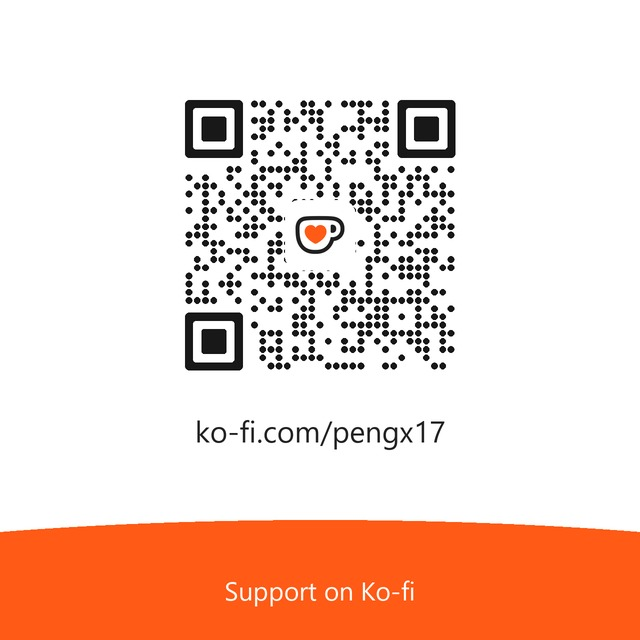
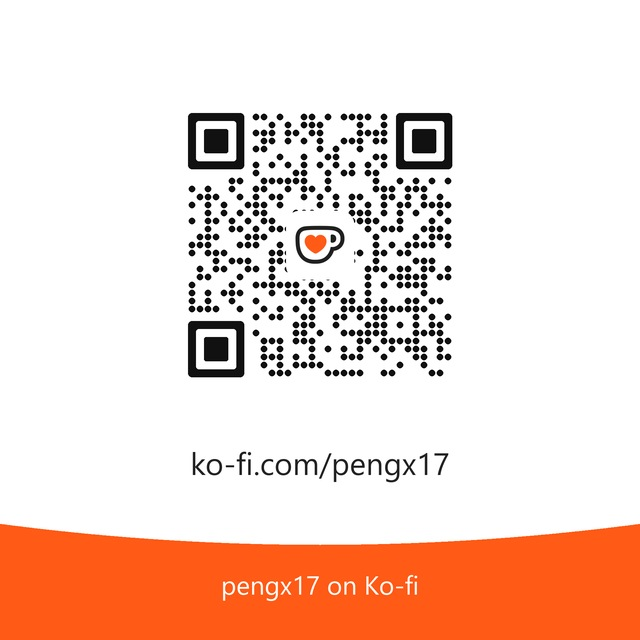
Support page: the two codes laid out alike (same frame, caption row, rows aligned across cards); the Ko-fi code is the link, no separate button

Changed region(s): [[0.2812, 0.1562, 0.7188, 0.5938], [0.0, 0.8125, 1.0, 0.9688], [0.2812, 0.6562, 0.6875, 0.75]]

diff --git a/site/public/support.html b/site/public/support.html
@@ -37,18 +37,19 @@
   .lead { color: var(--muted); margin: 0; max-width: 34em; }
   .opts { display: grid; grid-template-columns: 1fr 1fr; gap: 14px; margin-top: 28px; }
   .opts:has(#kofi[hidden]) { grid-template-columns: minmax(0, 340px); }
-  .opt { display: flex; flex-direction: column; gap: 10px; padding: 22px; border-radius: 12px; background: var(--surface); border: 1px solid var(--line); }
+  .opt { display: grid; grid-row: span 4; grid-template-rows: subgrid; row-gap: 10px; padding: 22px; border-radius: 12px; background: var(--surface); border: 1px solid var(--line); }
   .opt-head { display: flex; align-items: center; justify-content: space-between; gap: 12px; }
   .opt h2 { font-size: 16px; font-weight: 600; margin: 0; }
   .chip { font-size: 12px; color: var(--muted); background: var(--chip); border-radius: 999px; padding: 1px 9px; }
   .opt p { color: var(--muted); font-size: 14px; margin: 0; }
-  .qr { align-self: center; width: 210px; max-width: 100%; border-radius: 10px; border: 1px solid var(--line); display: block; margin-top: 6px; }
-  .btn {
-    margin-top: auto; align-self: flex-start; display: inline-flex; align-items: center; gap: 8px; height: 38px; padding: 0 15px;
-    border-radius: 8px; background: var(--ink); color: #fff; font-size: 13.5px; font-weight: 500;
-  }
-  .btn:hover { background: #282a2f; }
-  .btn svg { width: 14px; height: 14px; }
+  .qr { justify-self: center; align-self: start; width: 210px; max-width: 100%; margin-top: 6px; border-radius: 12px; border: 1px solid var(--line); display: block; overflow: hidden; }
+  a.qr { transition: transform .15s ease, box-shadow .15s ease; }
+  a.qr:hover { transform: translateY(-2px); box-shadow: 0 6px 18px rgba(0,0,0,.10); }
+  .qr img { display: block; width: 100%; height: auto; }
+  .cap { justify-self: center; display: inline-flex; align-items: center; gap: 6px; font-size: 12.5px; color: var(--subtle); }
+  a.cap { color: var(--muted); }
+  a.cap:hover { color: var(--ink); text-decoration: underline; text-underline-offset: 3px; }
+  a.cap svg { width: 12px; height: 12px; }
   .thanks { margin-top: 24px; color: var(--subtle); font-size: 13.5px; }
   footer { margin-top: 48px; padding-top: 18px; border-top: 1px solid var(--line); display: flex; justify-content: space-between; color: var(--subtle); font-size: 12.5px; }
   footer a:hover { color: var(--ink); }
@@ -78,6 +79,7 @@
       </div>
       <p><span data-l="zh">用微信扫一扫下面的赞赏码，金额随意。</span><span data-l="en">Scan the code below with WeChat. Any amount is welcome.</span></p>
       <img class="qr" src="/img/wechat-reward.jpg" alt="WeChat Reward Code" width="210" height="210">
+      <span class="cap"><span data-l="zh">微信 › 扫一扫</span><span data-l="en">WeChat › Scan</span></span>
     </article>
     <article class="opt" id="kofi" hidden>
       <div class="opt-head">
@@ -85,10 +87,10 @@
         <span class="chip"><span data-l="zh">全球</span><span data-l="en">Global</span></span>
       </div>
       <p><span data-l="zh">用 PayPal 或银行卡，在 Ko-fi 上请作者喝一杯。</span><span data-l="en">Buy the author a coffee on Ko-fi with PayPal or a card.</span></p>
-      <img class="qr" src="/img/kofi-code.jpg" alt="Ko-fi QR code" width="210" height="210">
-      <a class="btn" id="kofi-link" href="#" target="_blank" rel="noopener">
+      <a class="qr kofi-link" href="#" target="_blank" rel="noopener"><img src="/img/kofi-code.jpg" alt="Ko-fi QR code" width="210" height="210"></a>
+      <a class="cap kofi-link" href="#" target="_blank" rel="noopener">
+        <span data-l="zh">扫码，或点这里打开 Ko-fi</span><span data-l="en">Scan, or open Ko-fi here</span>
         <svg viewBox="0 0 16 16" fill="none" stroke="currentColor" stroke-width="1.6" stroke-linecap="round" stroke-linejoin="round"><path d="M9 2.5h4.5V7M13.5 2.5 7 9M11.5 9.5v3a1 1 0 0 1-1 1h-7a1 1 0 0 1-1-1v-7a1 1 0 0 1 1-1h3"/></svg>
-        <span data-l="zh">打开 Ko-fi</span><span data-l="en">Open Ko-fi</span>
       </a>
     </article>
   </section>
@@ -104,7 +106,7 @@
   (function () {
     var KOFI = "https://ko-fi.com/pengx17"; // Ko-fi's page (empty: the card stays hidden)
     if (KOFI) {
-      document.getElementById("kofi-link").href = KOFI;
+      document.querySelectorAll(".kofi-link").forEach(function (a) { a.href = KOFI; });
       document.getElementById("kofi").hidden = false;
     }
     var root = document.documentElement;
